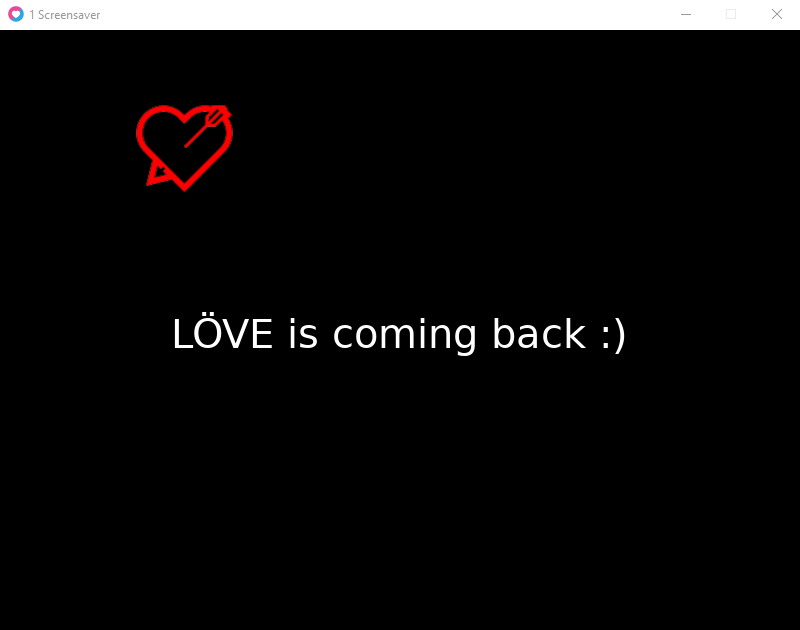
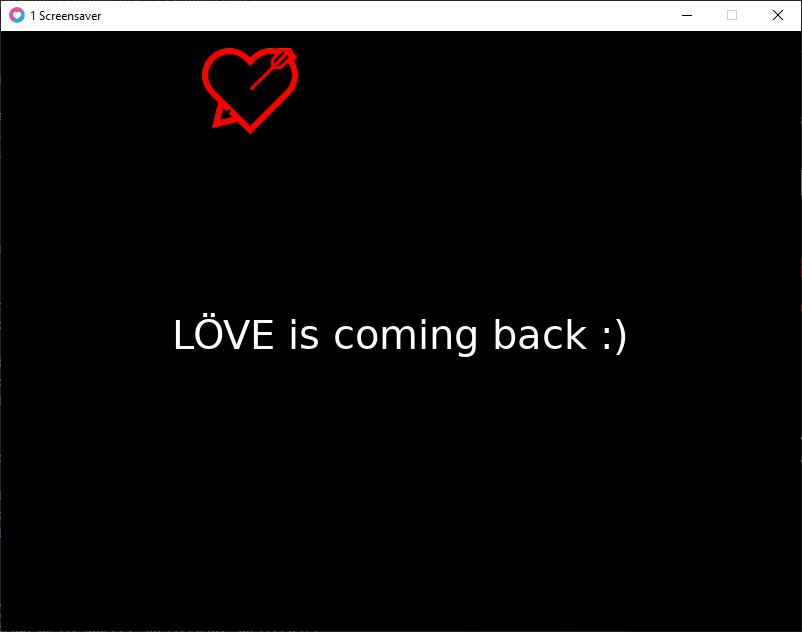
New project '2 Ellipse movement'
Initial project.
Add two screenshots.
Update README.MD with new project description.

Update 1_ScreenSaver_Screenshot1.PNG

diff --git a/README.md b/README.md
@@ -11,3 +11,11 @@ A simple screen saver application. Sprite is bouncing on the edge of the window.
 ### Screenshot
 
 ![alt text](Screenshots/1_ScreenSaver_Screenshot1.PNG)
+
+## 2 Ellipse movement
+
+You can move the ellipse, change its size and make it more ... angular.
+
+### Screenshots
+![alt text](Screenshots/2EllipseMovement_Screenshot1.PNG)
+![alt text](Screenshots/2EllipseMovement_Screenshot2.PNG)
